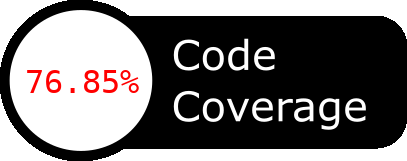
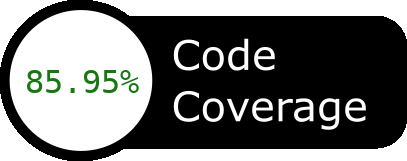
Unit tests

Changed region(s): [[0.1769, 0.4348, 0.3538, 0.5901], [0.059, 0.4348, 0.1769, 0.5901]]

diff --git a/src/Core/Index/IndexNode.php b/src/Core/Index/IndexNode.php
@@ -3,6 +3,7 @@
 namespace Small\SwooleDb\Core\Index;
 
 use Small\SwooleDb\Core\Enum\Operator;
+use Small\SwooleDb\Exception\IndexException;
 
 class IndexNode implements \JsonSerializable
 {
@@ -80,28 +81,61 @@ class IndexNode implements \JsonSerializable
     public function searchEqual(mixed $value): array
     {
 
-        if ($value == $this->data?->getValue()) {
+        if (!is_array($value) && $value == $this->data?->getValue()) {
+
             return $this->data?->getKeys() ?? [];
-        } else if ($this->data?->inferior($value)) {
-            if (!array_key_exists(0, $this->childs)) {
-                return [];
-            } else {
-                return $this->childs[0]->searchEqual($value);
+
+        } else if (is_array($value)) {
+
+            $found = true;
+            if (!is_array($this->data?->getValue())) {
+                throw new IndexException('Index values are not array');
             }
-        } else {
+
+            foreach ($value as $key => $item) {
+
+                if (!array_key_exists($key, $this->data->getValue())) {
+                    $found = false;
+                }
+
+                if ($item != $this->data->getValue()[$key]) {
+                    $found = false;
+                }
+
+            }
+
+            if ($found) {
+                return $this->data->getKeys();
+            }
+
+        }
+
+        if ($this->data?->inferior($value)) {
+
             if (!array_key_exists(1, $this->childs)) {
                 return [];
             } else {
                 return $this->childs[1]->searchEqual($value);
             }
+
+        } else {
+
+            if (!array_key_exists(0, $this->childs)) {
+                return [];
+            } else {
+                return $this->childs[0]->searchEqual($value);
+            }
+
         }
 
     }
 
     /**
+     * Get keys for operation
      * @param Operator $operator
      * @param mixed $value
-     * @return string[]
+     * @return array|string[]
+     * @throws IndexException
      */
     public function getKeys(Operator $operator, mixed $value): array
     {
@@ -111,8 +145,7 @@ class IndexNode implements \JsonSerializable
         switch ($operator) {
 
             case Operator::equal:
-                $method = 'equal';
-                break;
+                return $this->searchEqual($value);
 
             case Operator::inferior:
                 $method = 'inferior';
@@ -150,9 +183,10 @@ class IndexNode implements \JsonSerializable
 
         } else {
 
-            if (isset($sens) && array_key_exists($sens, $this->childs)) {
+            if (array_key_exists($sens, $this->childs)) {
                 $result = array_merge($result, $this->childs[$sens]->getKeys($operator, $value));
             }
+
 
         }
 

diff --git a/tests/Core/TableTest.php b/tests/Core/TableTest.php
@@ -58,15 +58,15 @@ class TableTest extends TestCase
             $table->set($value, ['name' => $name[rand(1, strlen($name)) - 1], 'price' => rand(1, 1000000) / 100]);
         }
 
+        $total = 0;
         for ($i = 0; $i < strlen($name); $i++) {
-            var_dump($name[$i]);
-            var_dump(
-                $table->filterWithIndex([
+
+            $total += $table->filterWithIndex([
                     new IndexFilter(Operator::equal, 'name', $name[$i])
-                ])->count()
-            );
+                ])->count();
         }
-        exit;
+
+        self::assertEquals(10000, $total);
 
     }
 

diff --git a/src/Selector/TableSelector.php b/src/Selector/TableSelector.php
@@ -99,7 +99,7 @@ class TableSelector
             }
         }
 
-        return new $result;
+        return $result;
 
     }
 
